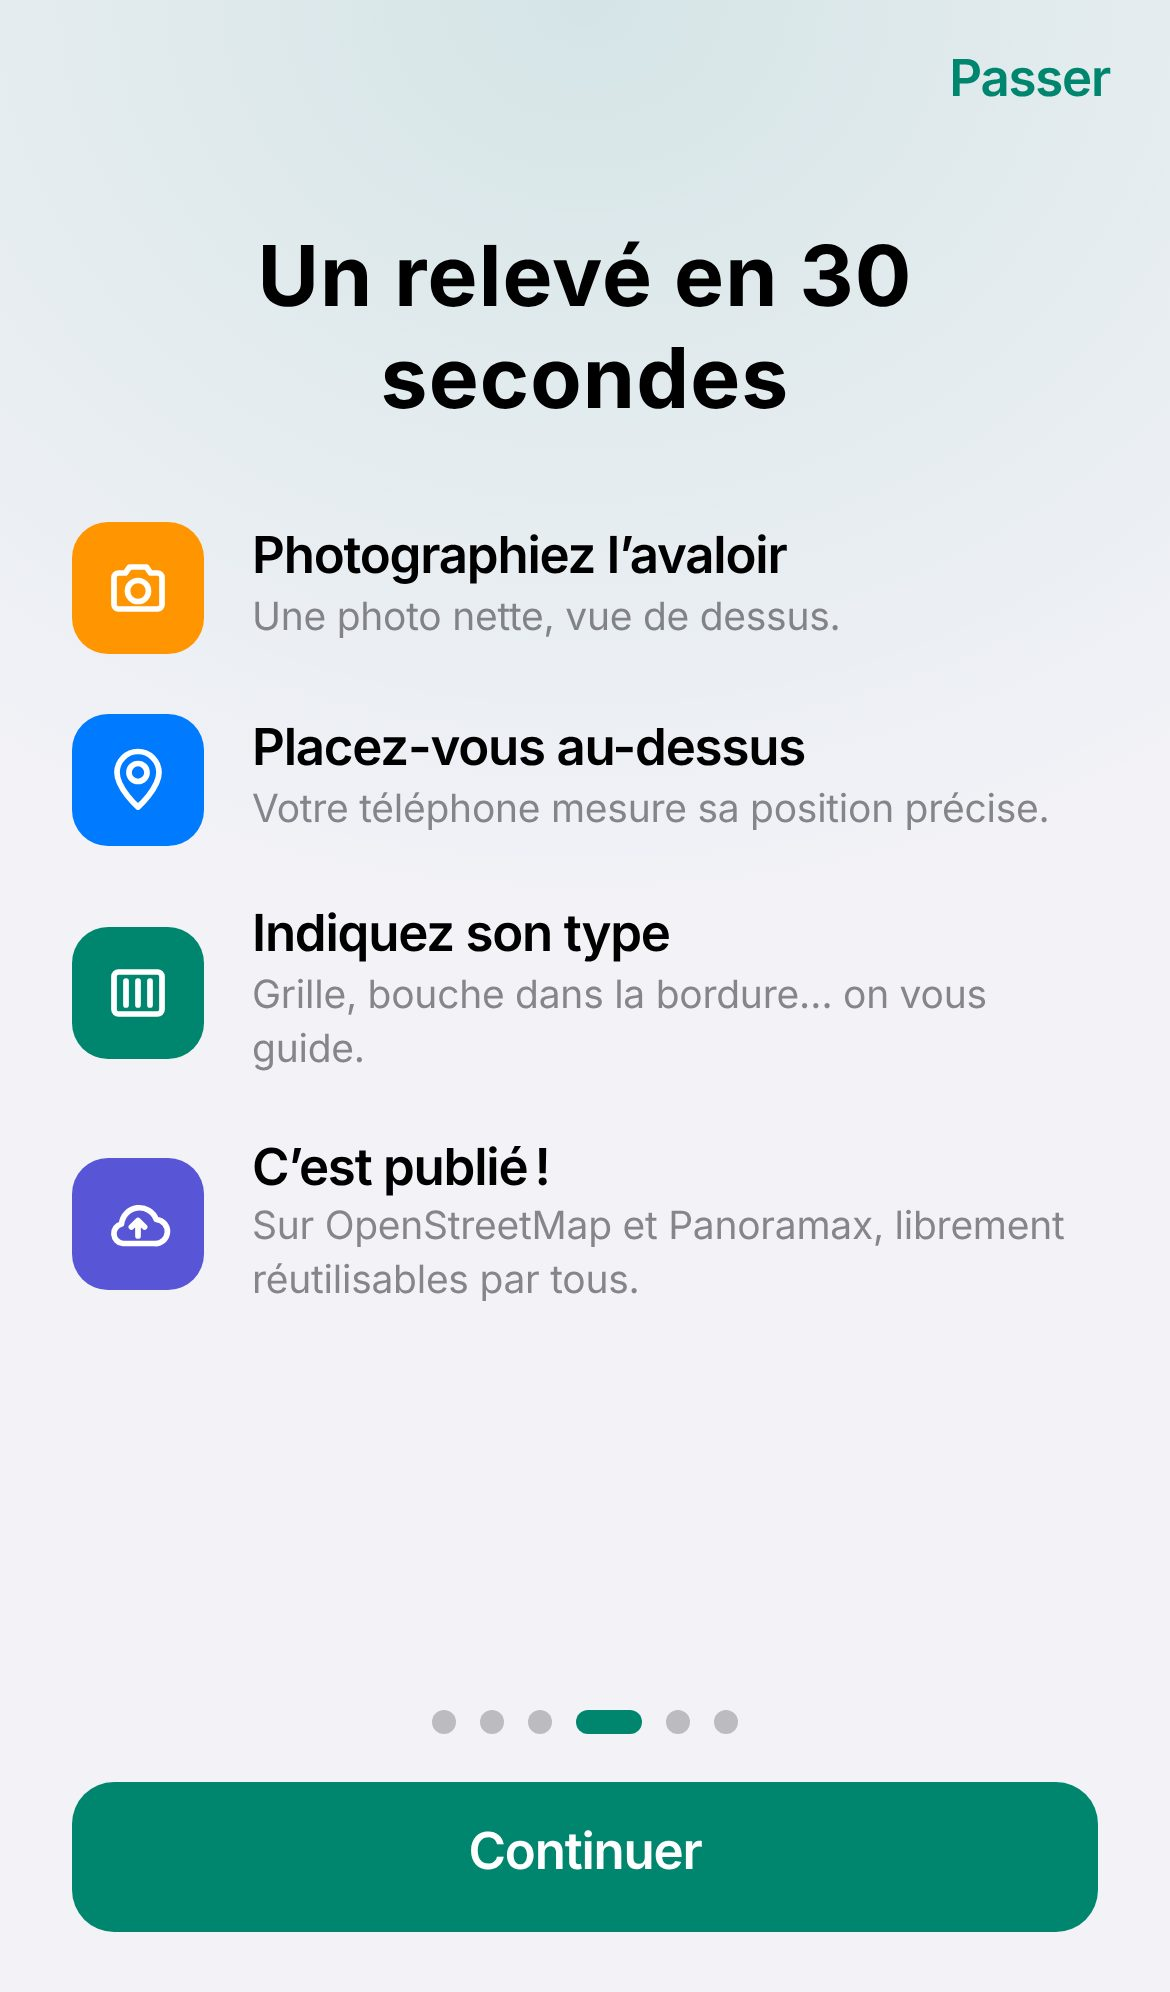
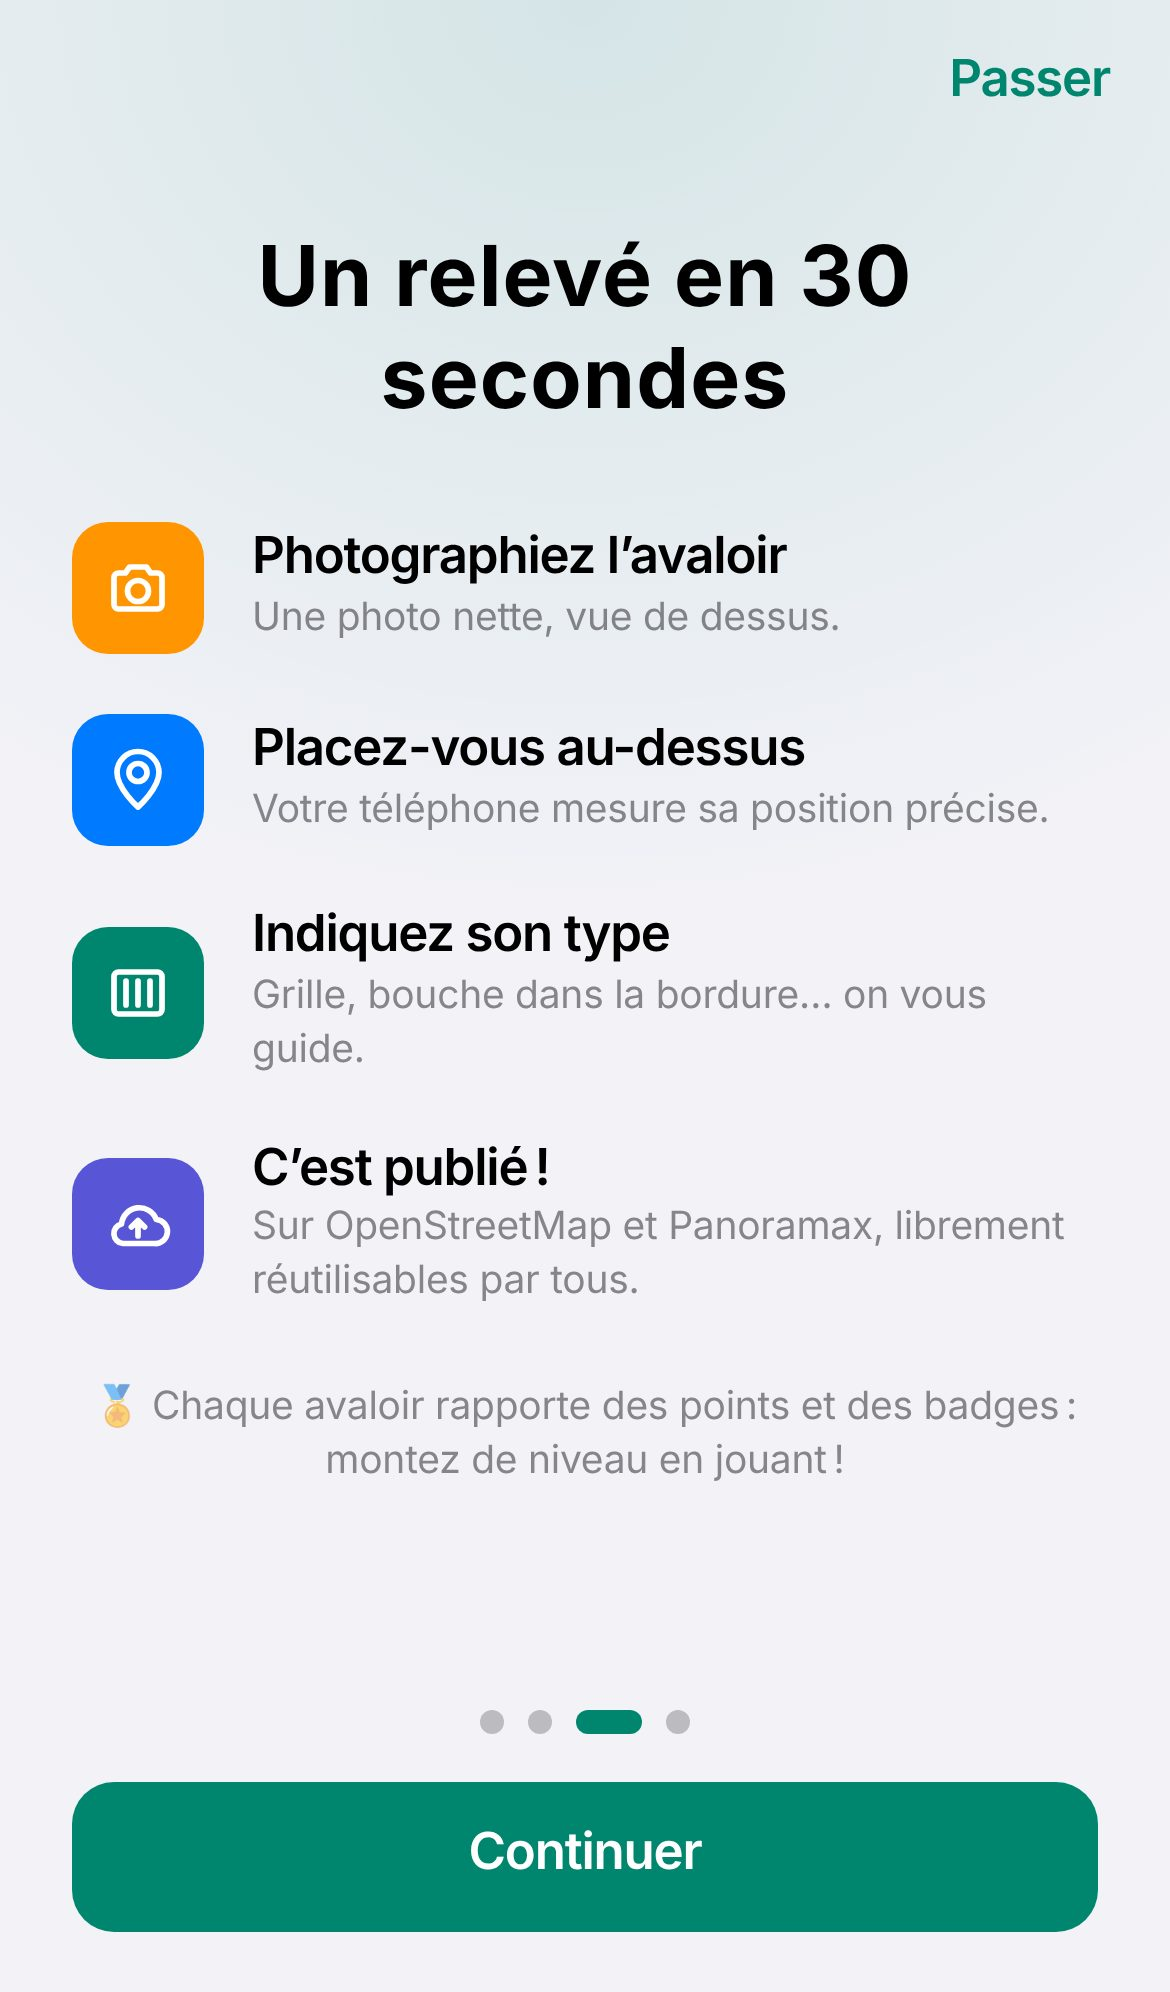
Simplification grand public : accueil en 4 pages, détails de l'avaloir et options avancées repliés
Claude-Session: https://claude.ai/code/session_01XJv6nhnWAXTRzL2B87KkeQ

Changed region(s): [[0.0923, 0.6847, 0.8923, 0.747], [0.6154, 0.8404, 0.6462, 0.8715], [0.3692, 0.8404, 0.4, 0.8715]]

diff --git a/src/screens/Onboarding.tsx b/src/screens/Onboarding.tsx
@@ -2,15 +2,15 @@ import { useEffect, useLayoutEffect, useRef, useState } from 'react';
 import { getConfig } from '../lib/config';
 import { t } from '../i18n';
 import { Icon } from '../components/Icon';
-import { haptic, Ring } from '../components/ui';
+import { haptic } from '../components/ui';
 import { enableCompass, requestLocationPermission } from '../lib/location';
 import { platform } from '../lib/store';
 import { invitedBy } from '../lib/invite';
-import { ExplainDrain, ExplainMosquito, ExplainWater } from './Explainer';
+import { DrainCutaway, ExplainMosquito } from './Explainer';
 
 const PAGE_KEY = 'avaloirs.onboardingPage';
-const PAGES = 6;
-const PERMISSIONS_PAGE = 5; // dernière page : le compte OpenStreetMap n'est demandé qu'après le premier avaloir relevé
+const PAGES = 4;
+const PERMISSIONS_PAGE = 3; // dernière page : le compte OpenStreetMap n'est demandé qu'après le premier avaloir relevé
 
 function savedPage(): number {
   try {
@@ -98,11 +98,12 @@ export function Onboarding({ onDone }: { onDone: () => void }) {
         </section>
 
         <section className="onboarding-page">
-          <ExplainDrain />
-        </section>
-
-        <section className="onboarding-page">
-          <ExplainWater />
+          <div className="cutaway-wrap">
+            <DrainCutaway />
+          </div>
+          <h1 className="title1 center">{t('explain.drainTitle')}</h1>
+          <p className="subhead secondary center">{t('explain.drainText')}</p>
+          <p className="subhead center mission">{t('explain.mission')}</p>
         </section>
 
         <section className="onboarding-page">
@@ -125,28 +126,7 @@ export function Onboarding({ onDone }: { onDone: () => void }) {
               </div>
             ))}
           </div>
-        </section>
-
-        <section className="onboarding-page">
-          <div className="onboarding-art">
-            <div className="game-preview">
-              <Ring progress={0.7} size={120} width={12} color="var(--accent)">
-                <div className="center">
-                  <div className="caption secondary">{t('level.short')}</div>
-                  <div className="title1 rounded-num">4</div>
-                </div>
-              </Ring>
-              <div className="medals-row">
-                {['🎯', '🔥', '📍', '🧭'].map((m, i) => (
-                  <span key={m} className="medal pop" style={{ animationDelay: `${0.2 + i * 0.1}s`, background: ['#34c759', '#ff9500', '#0a84ff', '#5e5ce6'][i] }}>
-                    {m}
-                  </span>
-                ))}
-              </div>
-            </div>
-          </div>
-          <h1 className="title1 center">{t('onboarding.p3Title')}</h1>
-          <p className="subhead secondary center">{t('onboarding.p3Text')}</p>
+          <p className="footnote secondary center" style={{ marginTop: 14 }}>🏅 {t('onboarding.p3Short')}</p>
         </section>
 
         <section className="onboarding-page">

diff --git a/src/screens/SettingsScreen.tsx b/src/screens/SettingsScreen.tsx
@@ -39,6 +39,7 @@ export function SettingsScreen({ onInvite }: { onInvite: () => void }) {
   const commune = useCommune();
   const [sheet, setSheet] = useState<'install' | 'about' | 'explain' | null>(null);
   const [exporting, setExporting] = useState(false);
+  const [showAdv, setShowAdv] = useState(false);
   const cfg = getConfig();
   const dev = cfg.openstreetmap.environment === 'dev';
   const stamp = new Date().toISOString().slice(0, 10);
@@ -88,6 +89,11 @@ export function SettingsScreen({ onInvite }: { onInvite: () => void }) {
         <Row icon="qr" color="var(--indigo)" label={t('settings.share')} onClick={onInvite} />
       </div>
 
+      <button className="btn plain more-toggle" aria-expanded={showAdv} onClick={() => setShowAdv(!showAdv)}>
+        {showAdv ? t('settings.lessOptions') : t('settings.moreOptions')}
+      </button>
+      {showAdv && (
+        <div className="slide-in">
       <h3 className="section-title">{t('settings.data')}</h3>
       <div className="list">
         <Row
@@ -136,6 +142,9 @@ export function SettingsScreen({ onInvite }: { onInvite: () => void }) {
           />
         </label>
       </div>
+
+        </div>
+      )}
 
       <h3 className="section-title">{t('settings.about')}</h3>
       <div className="list">

diff --git a/src/screens/capture/TypeStep.tsx b/src/screens/capture/TypeStep.tsx
@@ -40,6 +40,7 @@ export function TypeStep({
     onChange(next, observations);
   };
   const [missing, setMissing] = useState(false);
+  const [more, setMore] = useState(false);
   const waterRef = useRef<HTMLHeadingElement>(null);
   const tri = (v: TriState | undefined, key: keyof Observations) => (value: TriState) =>
     onChange(details, { ...observations, [key]: v === value ? undefined : value });
@@ -126,6 +127,10 @@ export function TypeStep({
           </div>
           <p className="section-footer">{t('water.footer')}</p>
 
+          <button className="btn plain more-toggle" aria-expanded={more} onClick={() => setMore(!more)}>
+            {more ? t('type.lessDetails') : t('type.moreDetails')}
+          </button>
+          {more && <div className="slide-in">
           <h3 className="section-title">{t('type.detailsTitle')}</h3>
           <div className="card stack">
             {details.type !== 'kerb_opening' && details.type !== 'channel' && (
@@ -183,6 +188,7 @@ export function TypeStep({
             </Field>
           </div>
           <p className="section-footer">{t('type.obsFooter')}</p>
+          </div>}
         </div>
       )}
 

diff --git a/src/i18n/fr.ts b/src/i18n/fr.ts
@@ -35,6 +35,7 @@ const fr: Dict = {
     step3Text: 'Grille, bouche dans la bordure… on vous guide.',
     step4Title: 'C’est publié !',
     step4Text: 'Sur OpenStreetMap et Panoramax, librement réutilisables par tous.',
+    p3Short: 'Chaque avaloir rapporte des points et des badges : montez de niveau en jouant !',
     p3Title: 'Gagnez des points et des badges',
     p3Text:
       'Chaque avaloir rapporte des points, d’autant plus que le relevé est précis et complet. Montez de niveau, tenez votre série et grimpez dans le classement de la commune.',
@@ -202,6 +203,8 @@ const fr: Dict = {
   },
 
   type: {
+    moreDetails: 'Ajouter des détails (facultatif)',
+    lessDetails: 'Masquer les détails',
     title: 'Quel type d’avaloir ?',
     subtitle: 'Comparez avec votre photo',
     ctaType: 'Choisissez un type d’avaloir',
@@ -636,6 +639,8 @@ const fr: Dict = {
   },
 
   settings: {
+    moreOptions: 'Options avancées (exports, mode test)',
+    lessOptions: 'Masquer les options avancées',
     title: 'Réglages',
     language: 'Langue',
     app: 'Application',

diff --git a/src/i18n/en.ts b/src/i18n/en.ts
@@ -35,6 +35,7 @@ const en: Dict = {
     step3Text: 'Grate, kerb opening… we guide you.',
     step4Title: 'It’s published!',
     step4Text: 'On OpenStreetMap and Panoramax, free for everyone to reuse.',
+    p3Short: 'Every drain earns points and badges: level up as you play!',
     p3Title: 'Earn points and badges',
     p3Text:
       'Every drain earns points, even more when the survey is precise and complete. Level up, keep your streak alive and climb your town’s leaderboard.',
@@ -202,6 +203,8 @@ const en: Dict = {
   },
 
   type: {
+    moreDetails: 'Add details (optional)',
+    lessDetails: 'Hide details',
     title: 'What type of drain?',
     subtitle: 'Compare with your photo',
     ctaType: 'Choose a drain type',
@@ -636,6 +639,8 @@ const en: Dict = {
   },
 
   settings: {
+    moreOptions: 'Advanced options (exports, test mode)',
+    lessOptions: 'Hide advanced options',
     title: 'Settings',
     language: 'Language',
     app: 'App',

diff --git a/src/styles/app.css b/src/styles/app.css
@@ -1856,3 +1856,5 @@
 .map-legend.compact {
   min-height: 44px;
 }
+
+.more-toggle { width: 100%; margin: 14px 0 4px; }
